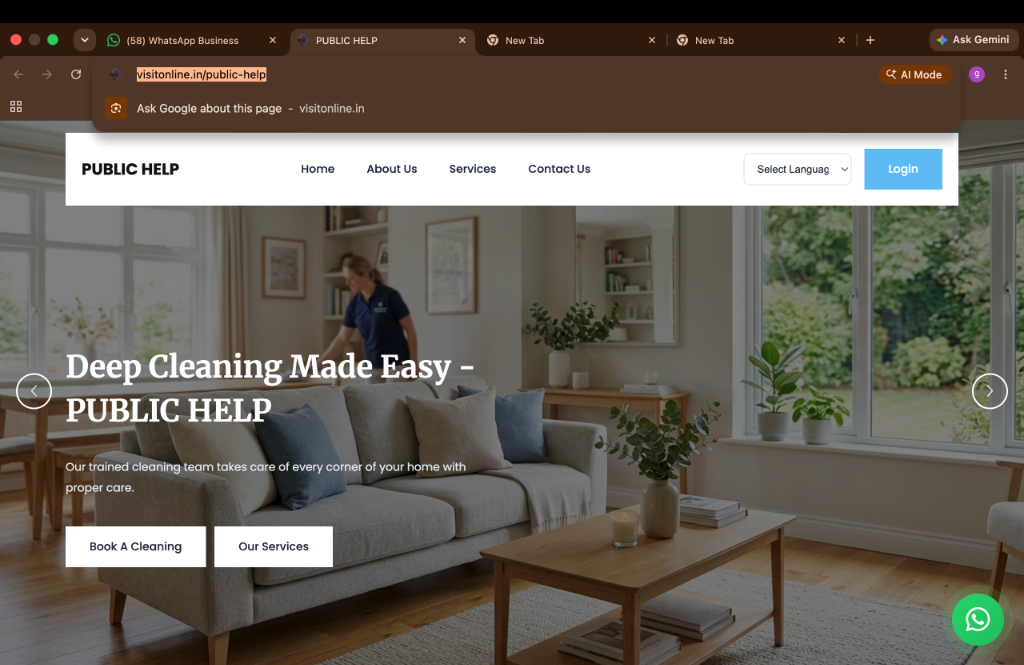
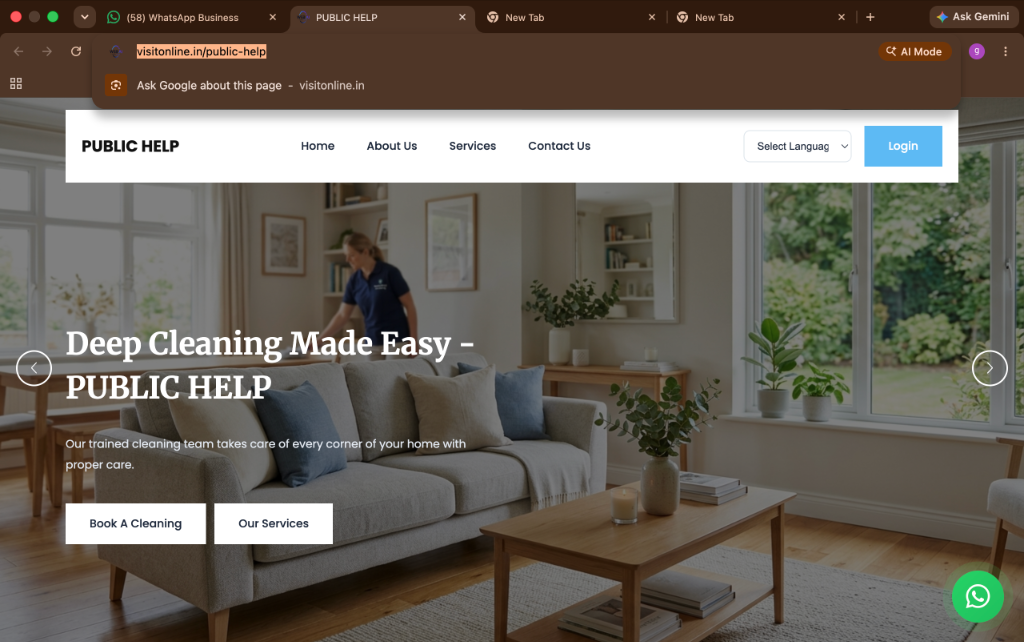
Crop black letterbox padding from utensil poster and update container background to light theme

diff --git a/css/style.css b/css/style.css
@@ -1218,14 +1218,14 @@ button, input, select, textarea {
   position: relative;
   height: 280px;
   overflow: hidden;
-  background: #0f172a;
+  background: #f1f5f9;
 }
 
 .care-img {
   width: 100%;
   height: 100%;
   object-fit: cover;
-  object-position: top center;
+  object-position: center center;
   transition: transform var(--transition-normal);
 }
 
@@ -1321,7 +1321,7 @@ button, input, select, textarea {
   position: relative;
   height: 100%;
   min-height: 320px;
-  background: #0f172a;
+  background: #f1f5f9;
   overflow: hidden;
 }
 
